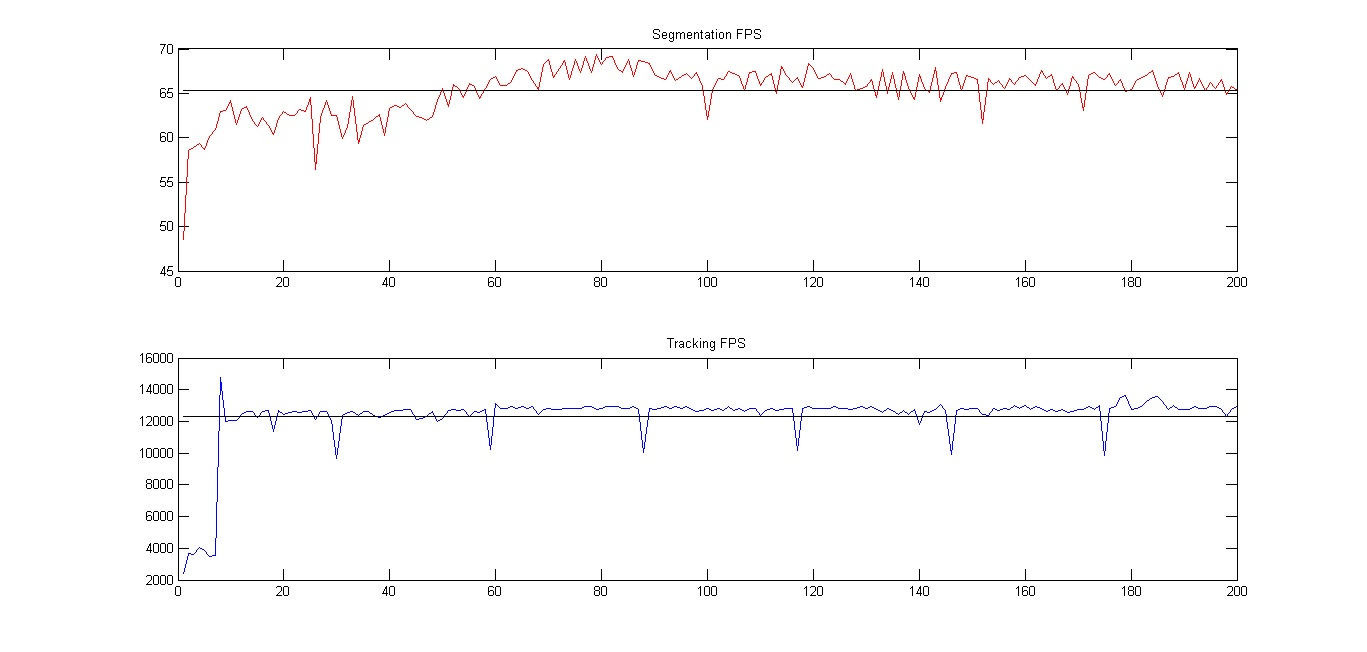
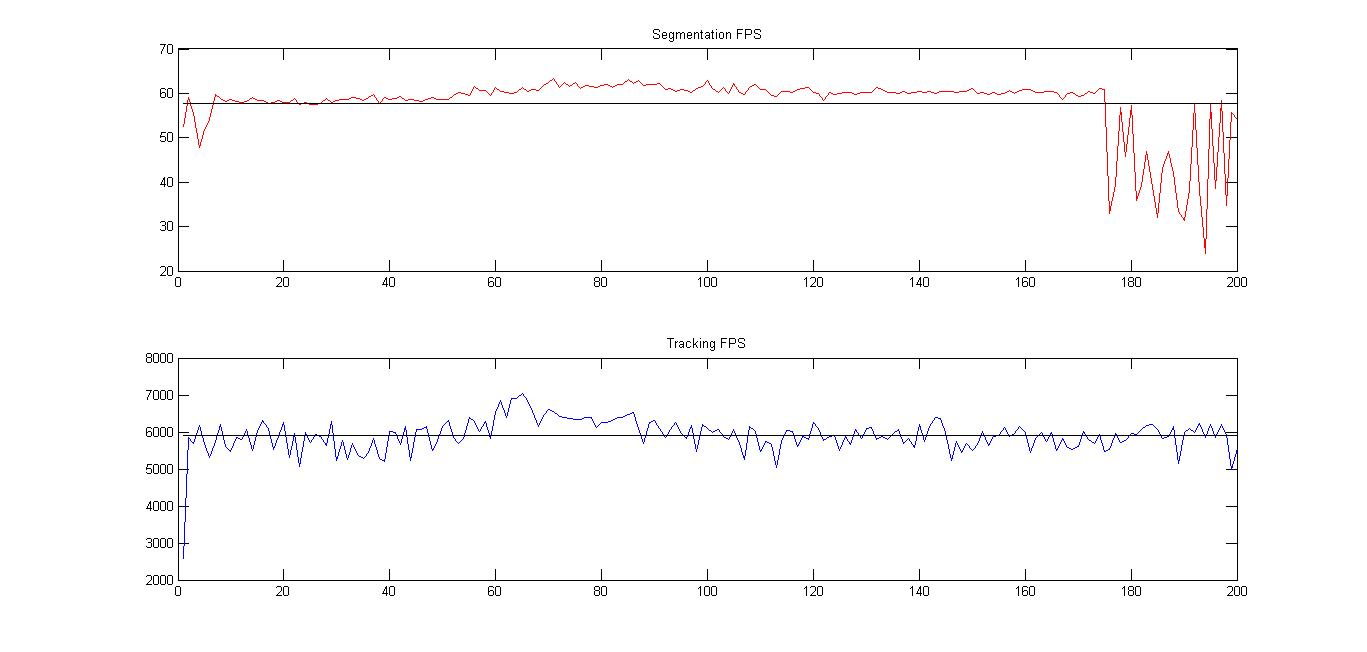
--> Added more images --> c43

diff --git a/LatexFiles/c43_results.tex b/LatexFiles/c43_results.tex
@@ -1,14 +1,17 @@
 \subsection{Introduction}
 	This section is divided in two parts, the first one describe the implementation of the algorithm in a laptop computer. The objective is to get a reference to compare the results of the final implementation. The second one is a description of the final application and its results.
+	During this experiments, five datasets were used. These datasets were provided by the GRVC, captured in the testbed of CATEC \cite{CATEC}, and were used previously by a partner. These datasets, composed by a number of images and data provided by a VICON system (Time, position and orientation of quadrotors), and Representing different situations, yielded a number of interesting results that will be gathered at the end of this chapter. 
 
 \subsection{Complete Test in PC}
 	In this situation, the algorithm runs in a Desktop computer using a USB camera. Summarizing:
 	
 	\begin{itemize}
-		\item{Camera: 30 Hz and pictures of 640x480}
+		\item{Camera: 30 Hz and pictures of 640x480 (Logitech c525)}
 		\item{Intel core i7 2.20 GHz. Usage 7\%}
 		\item{6 GB of RAM. Usage $\sim$ 5000 KB}
 	\end{itemize}
+	
+	Figure: \ref{fig:frames_PC} shows the captured image from the camera and the result of the segmentation algorithm. Particularly, we were looking for orange color (The cap of the quadrotor in this case). However unlike simulation, where there was only one object as the result of segmentation, the algorithm return many targets. The first sift is by size, we do not consider tiny objects that use to be noise and are quantitative smaller than the target.
 	
 	\begin{figure}[h]
 		\centering
@@ -23,15 +26,32 @@
 			\caption{Segmented Image}
 			\label{fig:image_seg}
 		\end{subfigure}
+		\caption{Images to and from algorithm}
+		\label{fig:frames_PC}
 	\end{figure}
+	
+	
+	\subsubsection{Ground Tracking algorithm}
+	Here segmentation runs at $\sim$ 58 FPS  \ref{fig:fps_PC}. etc... etc....
+	
 	
 	\begin{figure}[ht]
 		\centering
-		\includegraphics[width=\linewidth]{../Images/c4/trajs}
-		\caption{}
-		\label{fig:trajectories_PC}
+		\begin{subfigure}[ht]{0.45\linewidth}
+			\centering
+				\includegraphics[width=\linewidth]{../Images/c4/trajs}
+				\caption{Original and tracked trajectories}
+				\label{fig:trajectories_PC}
+		\end{subfigure}
+		~
+		\begin{subfigure}[ht]{0.45\linewidth}
+			\centering
+			\includegraphics[width=\linewidth]{../Images/c4/errors}
+			\caption{Error between real and tracked trajectories}
+			\label{fig:errors_PC}
+		\end{subfigure}
 	\end{figure}
-	
+			
 	\begin{figure}[ht]
 		\centering
 		\includegraphics[width=\linewidth]{../Images/c4/fps}
@@ -39,8 +59,12 @@
 		\label{fig:fps_PC}
 	\end{figure}
 		
-
+	\subsubsection{Stereo Tracking algorithm}
 	
 
 	
 \subsection{Test with Odroid and Ground Station}
+
+	\subsubsection{Ground Tracking algorithm}
+	
+	\subsubsection{Stereo Tracking algorithm}
